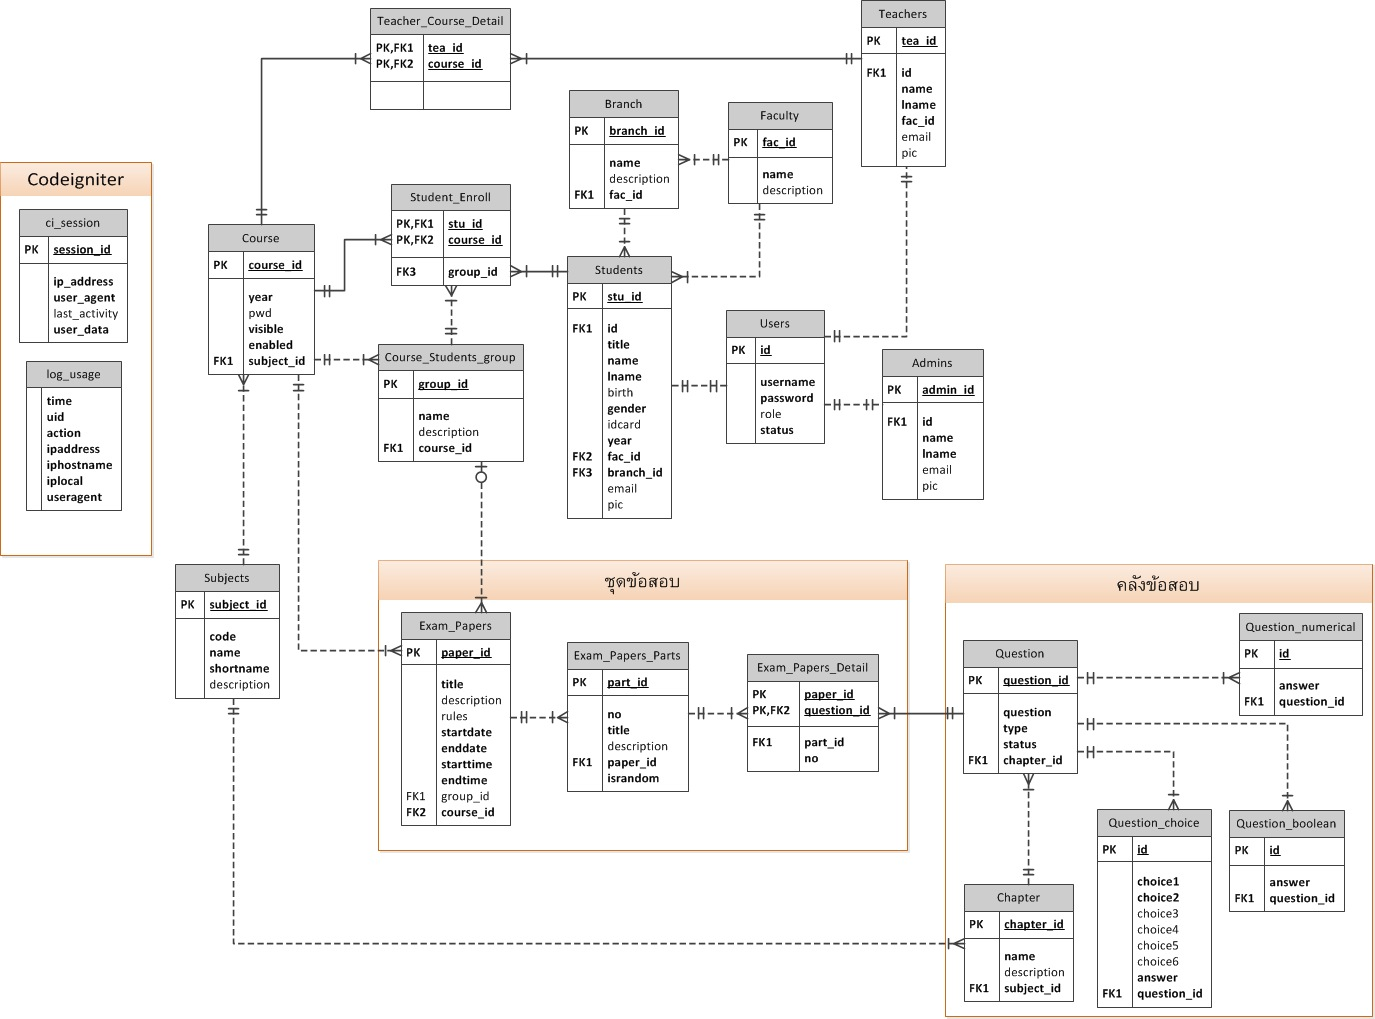
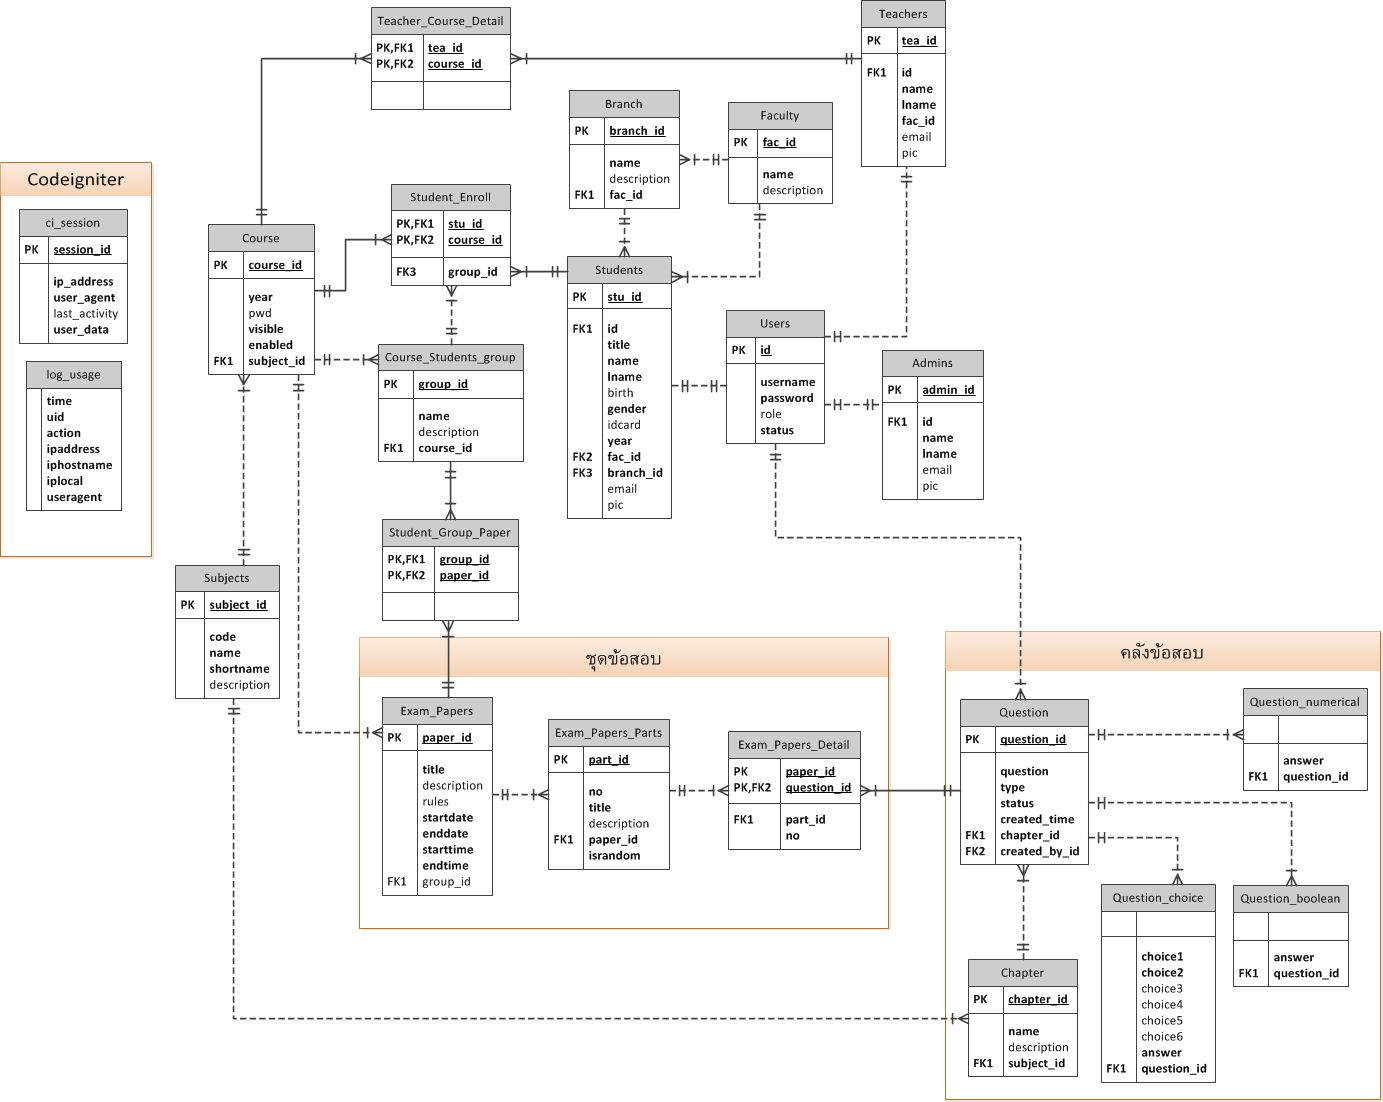
Update เพิ่ม ผู้เรียนเข้ากลุ่มได้
* เพิ่ม ER  ตาราง Detail ระหว่าง Exam_Papers กับ Course_student_group
* Update SQL
+ เช็ค AJAX Login   teacher/courses
+ JS สำหรับ เพิ่มผู้เรียนเข้ากลุ่ม
+ การบันทึก ผู้เรียนเข้ากลุ่ม AJAX
+ Model func สำหรับ  เรียกรายการกลุ่ม และ นับจำนวนในกลุ่ม
* ปรับปรุง Model fund  updateStudentList  ระบุตัวแปร group_id ด้วย
* ปรับปรุง View

Changed region(s): [[0.0, 0.0, 1.0, 1.0]]

diff --git a/application/controllers/teacher/courses.php b/application/controllers/teacher/courses.php
@@ -9,6 +9,7 @@ class Courses extends CI_Controller {
 	private $datePicker;
 	private $removePwd;
 	private $listview;
+	private $stdGroup;
 
 	private $role;
 
@@ -26,7 +27,12 @@ class Courses extends CI_Controller {
 		{
 			if ( ! $this->Users->_checkRole($perm)) redirect('main');
 		} else {
-			redirect('auth/login');
+			if(!empty($_SERVER['HTTP_X_REQUESTED_WITH']) && strtolower($_SERVER['HTTP_X_REQUESTED_WITH']) == 'xmlhttprequest') {
+				echo json_encode(array('error' => "Session expire, please re-login."));
+				die();
+			}
+			else
+				redirect('auth/login');
 		}
 
 		$this->role = $this->session->userdata('role');
@@ -299,11 +305,85 @@ $(function() {
 
 ";
 
+		$this->stdGroup = <<<HTML
+	function btnAddState(s) {
+		var btn = $("#stdListSave");
+		if (s == "load")
+		{
+			btn.removeClass("btn-primary").attr("disabled","disabled")
+			.find("i").removeClass("fa-save").addClass("fa-spinner fa-spin");
+		}
+		else if(s == "normal")
+		{
+			btn.addClass("btn-primary").removeAttr("disabled")
+			.find("i").removeClass("fa-spinner fa-spin").addClass("fa-save");
+		}
+	};
+
+	$("#sectorListq").delegate("a[href^='#group/']", "click", function(e) {
+		e.preventDefault();
+		var group_id = $(this).attr("data-group-id");
+		// Load data
+
+		$("#stugroup").attr("data-group-id", group_id).modal('show');
+	});
+
+	$("#stdListSave").click(function(e) {
+		e.preventDefault();
+		btnAddState("load");
+		var oxsysAPI = "{$this->misc->getHref("teacher/courses/callbackjson/saveStdList/")}/?ts="+Date.now();
+
+		var stdselected = decodeURIComponent($("#studentList").serialize());
+		var course_id = "course_id={$this->uri->segment(4)}";
+		var group_id = "group_id="+$(this).parent().parent().parent().parent().attr('data-group-id');
+		var myData = stdselected + '&' + course_id + '&' + group_id;
+
+		$.ajax({
+			type: "POST",
+			url: oxsysAPI,
+			data: myData,
+			contentType: "application/x-www-form-urlencoded",
+			dataType: "json"
+		})
+		.done(function(data) {
+			if (data.error != "") {
+
+				var jbox = new jBox('Modal', {
+					width: 350,
+					title: 'ข้อผิดพลาด',
+					overlay: true,
+					content: data.error,
+				});
+				jbox.open();
+			}else{
+				$("#stugroup").modal('hide');
+			}
+			btnAddState("normal");
+		})
+		.fail(function(jqxhr, textStatus, error) {
+			var err = textStatus + ", " + error;
+			console.log("Request Failed: "+err);
+
+			var jbox = new jBox('Modal', {
+				width: 350,
+				height: 100,
+				title: 'ข้อผิดพลาด',
+				overlay: true,
+				content: error,
+			});
+			jbox.open();
+			btnAddState("normal");
+		});
+
+	});
+HTML;
+
 		$this->scriptList = array(
 			'subjectDropdownScript' => $this->subjectDropdownScript,
 			//'datePicker' => $this->datePicker,
 			'removePwd' => $this->removePwd,
 			'listview' => $this->listview,
+			'stdGroup' => $this->stdGroup,
 		);
 
 
@@ -367,6 +447,9 @@ $(function() {
 				// Load Students
 				$data['studentListinCourse'] = $this->courses->getStudentlist($courseId);
 				$data['studentListAvaliable'] = $this->courses->getStudentlist($courseId, 'exclude');
+
+				// Load Sectors
+				$data['studentListGroups'] = $this->courses->getStudentGroups($courseId);
 
 				// Set page desc
 				$data['formlink'] = $this->role.'/courses/view/'.$courseId;
@@ -475,12 +558,7 @@ $(function() {
 			}
 
 			// Update Student list
-			$updateStdsRes = $this->courses->updateStudentList($courseId,$this->input->post('stdselected'));
-			if ($updateStdsRes != 0) {
-				$this->session->set_flashdata('msg_error',
-					'มีบางอย่างผิดพลาด ในการเพิ่มผู้สอน '.$updateStdsRes);
-				redirect($this->role.'/courses');
-			}
+			// Moved to AJAX !
 
 			# Remove password ??
 			if ($this->input->post('removepass') == "1")
@@ -535,6 +613,19 @@ $(function() {
 					echo json_encode($this->courses->getSubjectDesc($arg_list[1]));
 				else
 					echo json_encode(array('error' => "No Subject_id"));
+				break;
+
+			case 'saveStdList':
+				// Update Student list
+				$updateStdsRes = $this->courses->updateStudentList($this->input->post('group_id'),
+					$this->input->post('course_id'),
+					$this->input->post('stdselected'));
+				if ($updateStdsRes != 0) {
+					echo json_encode(array('error' => 'Error with '.$updateStdsRes));
+				}
+				else
+					echo json_encode(array('result' => 'completed', 'error' => ''));
+
 				break;
 
 			default:

diff --git a/application/views/teacher/field_course_view.php b/application/views/teacher/field_course_view.php
@@ -200,23 +200,18 @@ EOL;
 										<i class="fa fa-plus"></i> เพิ่มกลุ่ม
 									</button>
 
-									<div class="chapterListGroup">
+									<div class="sectorListGroup">
 										<h4>กลุ่มผู้เรียนในวิชา</h4>
-										<ul id="chapterListq" class="list-group">
+										<ul id="sectorListq" class="list-group">
 											<?php
-												// foreach ($chapterList as $item) {
-												// 	echo "<a href=\"".$this->misc->getHref("teacher/qwarehouse/viewq")."/$subjectInfo[code]/$item[chapter_id]\" class=\"list-group-item".(($item['chapter_id']==$chapterid)?" active":"")."\" data-chapter-id=\"$item[chapter_id]\">
-												// 	<span class=\"badge\"></span>
-												// 	<h4 class=\"list-group-item-heading\">$item[name]</h4>
-												// 	<div class=\"item-group-item-text\">$item[description]</div>
-												// 	</a>";
-												// }
+												foreach ($studentListGroups as $item) {
+													echo "<a href=\"#group/".$item['group_id']."\" class=\"list-group-item\" data-group-id=\"$item[group_id]\">
+													<span class=\"badge\">".$this->courses->countStudentInGroup($item['group_id'], $item['course_id'])."</span>
+													<h4 class=\"list-group-item-heading\">$item[name]</h4>
+													<div class=\"item-group-item-text\">$item[description]</div>
+													</a>";
+												}
 											?>
-											<a href="#1" class="list-group-item" data-group-id="1" data-toggle="modal" data-target="#stugroup">
-												<span class="badge">10 คน</span>
-												<h4 class="list-group-item-heading">Sec 1</h4>
-												<div class="item-group-item-text"></div>
-											</a>
 										</ul>
 									</div>
 								</div>
@@ -250,8 +245,8 @@ EOL;
 												</div>
 											</div>
 											<div class="modal-footer">
-												<button type="button" class="btn btn-default" data-dismiss="modal">Close</button>
-												<button type="button" class="btn btn-primary">Save changes</button>
+												<button type="button" class="btn btn-default" data-dismiss="modal">ยกเลิก</button>
+												<button type="button" class="btn btn-primary" id="stdListSave"><i class="fa fa-save"></i> บันทึก</button>
 											</div>
 										</div><!-- /.modal-content -->
 									</div><!-- /.modal-dialog -->

diff --git a/application/models/courses_model.php b/application/models/courses_model.php
@@ -262,25 +262,27 @@ class Courses_model extends CI_Model {
 		}
 	}
 
-	function updateStudentList($CourseId, $stdId)
+	function updateStudentList($groupId, $CourseId, $stdId)
 	{
 		$data = array();
 
 		if ($stdId == null)
 		{
 			$this->db->delete('Student_Enroll',
-				array('course_id' => $CourseId));
+				array('course_id' => $CourseId, 'group_id' => $groupId));
 			return 0;
 		}
 
 		for ($i=0; $i < sizeof($stdId); $i++) {
+			$data[$i]['group_id'] = $groupId;
 			$data[$i]['stu_id'] = $stdId[$i];
 			$data[$i]['course_id'] = $CourseId;
 		}
 
 		$this->db->trans_begin();
 		$this->db->delete('Student_Enroll',
-			array('course_id' => $CourseId));
+			array('course_id' => $CourseId,
+						'group_id' => $groupId));
 
 		$qins = $this->db->insert_batch('Student_Enroll', $data);
 		$errno = $this->db->_error_number();
@@ -293,6 +295,26 @@ class Courses_model extends CI_Model {
 		{
 			return $errno;
 		}
+	}
+
+	function getStudentGroups($CourseId)
+	{
+		$cause = array('course_id' => $CourseId);
+		$query = $this->db
+			->get_where('Course_Students_group', $cause)
+			->result_array();
+		return $query;
+	}
+
+	function countStudentInGroup($groupId, $CourseId = '')
+	{
+		$cause['group_id'] = $groupId;
+		if ($CourseId != '') $cause['course_id'] = $CourseId;
+		$query = $this->db
+			->select('count(stu_id) as scount')
+			->get_where('Student_Enroll', $cause)
+			->row_array();
+		return $query['scount'];
 	}
 
 }
